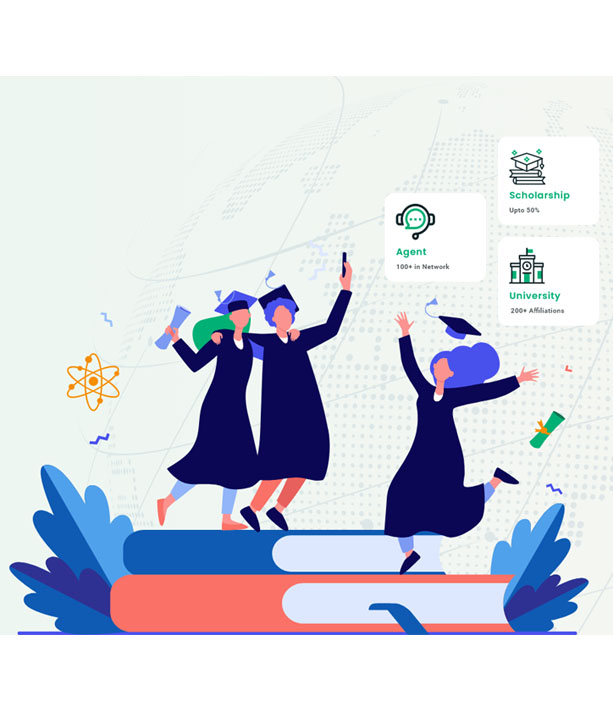
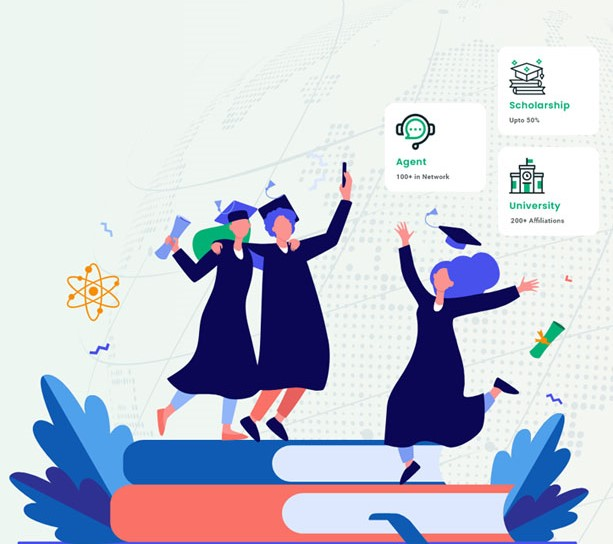
student page hero secion desing

diff --git a/student.html b/student.html
@@ -88,10 +88,8 @@
         <div class="container">
           <div class="row gy-4">
             <div class="col-lg-6 order-2 order-lg-1 d-flex flex-column justify-content-center" data-aos="zoom-out">
-              <h1>Find the most promising Study Destinations!</h1>
-              <p>For over 30 years, Global Study Contacts (part of Contacts International) has been the ‘home’ of overseas
-                university applications, assisting self-funded students
-                through the entire university application process.</p>
+              <h1>Resettle Onto Your Dream Study Destination</h1>
+              <p>Global Study Contacts Specialize in Education Consultancy, Visa Processing, Part-time Job Scouting, PR and Everything you need to start your new life</p>
               <div class="d-flex">
                 <input type="text" placeholder="Search Program......"
                   class="input-group border-none rounded-pill px-2 mx-2 bg-transparent">
@@ -99,7 +97,7 @@
               </div>
             </div>
             <div class="col-lg-6 order-1 order-lg-2 hero-img" data-aos="zoom-out" data-aos-delay="200">
-              <img src="assets/img/hero-img.png" class="img-fluid animated" alt="">
+              <img src="assets/src_gsc/image/l3/png/student-hero.jpg" class="img-fluid animated" alt="">
             </div>
           </div>
         </div>
